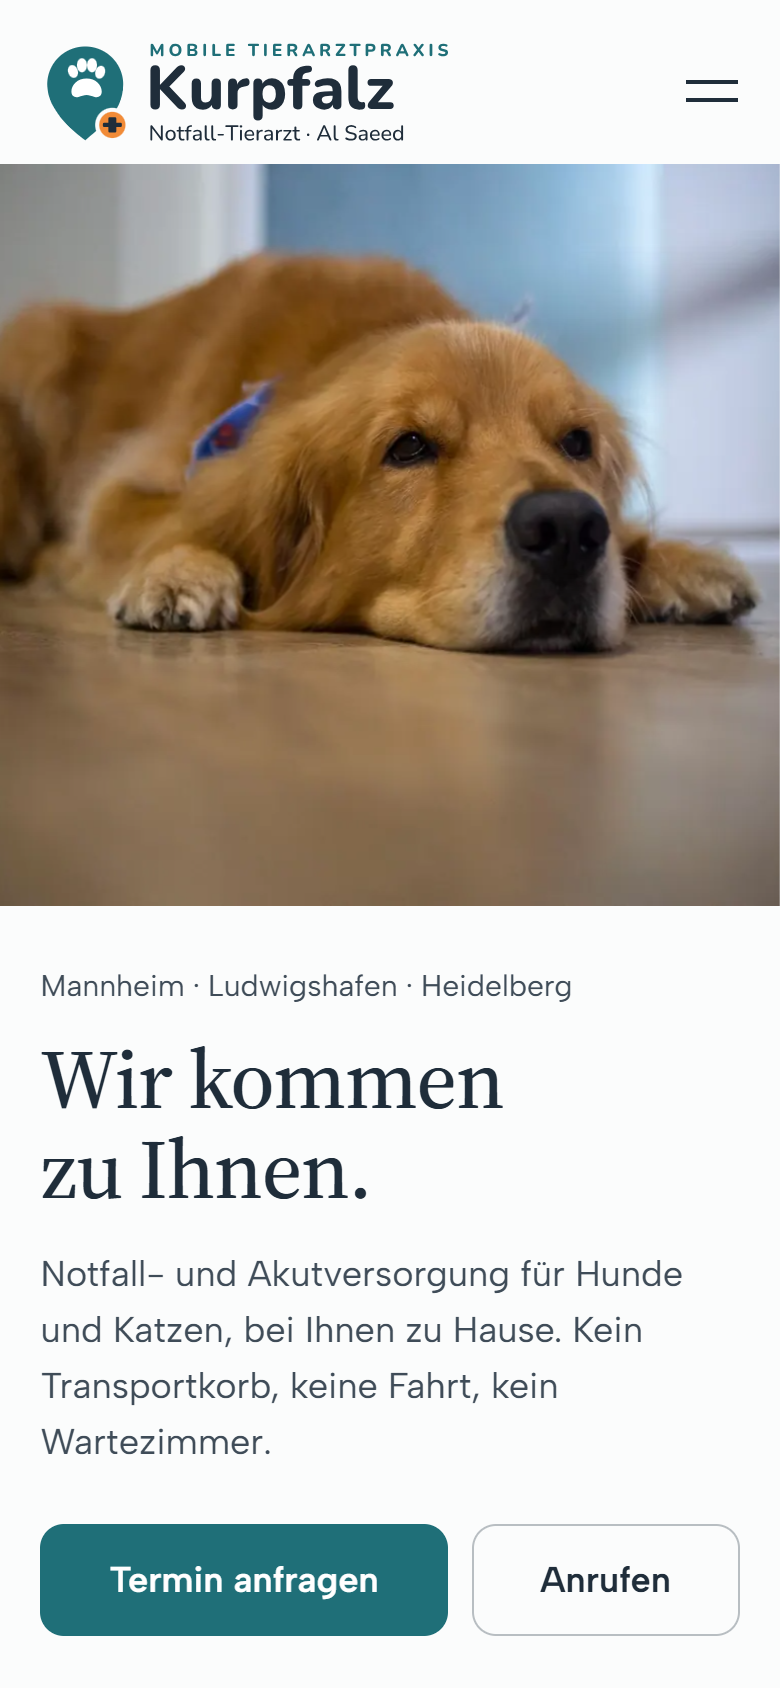
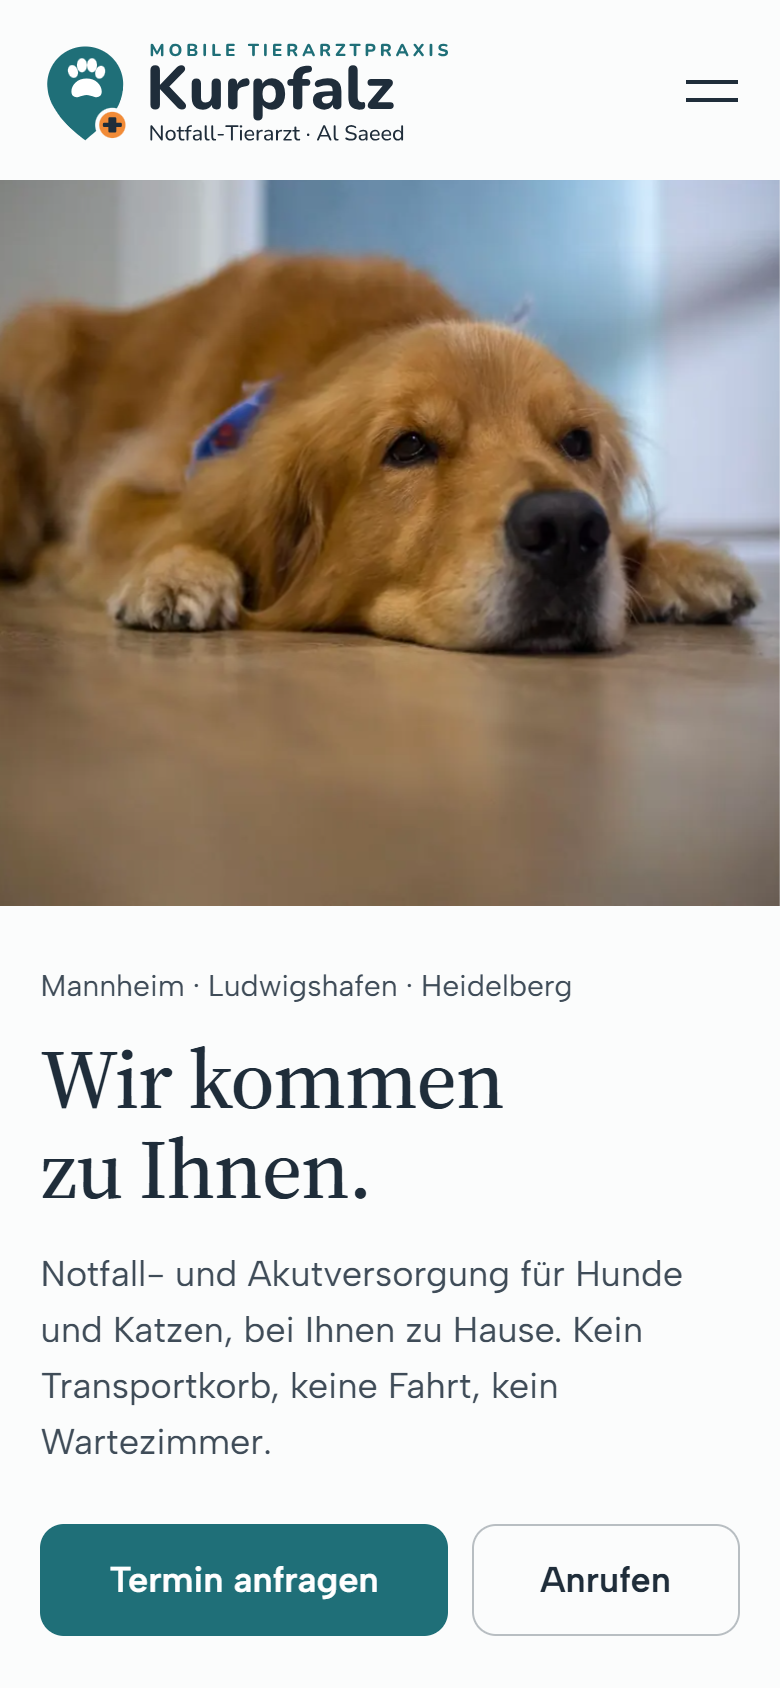
Kopfzeile: gleitende Petrol-Linie, aktueller Abschnitt markiert, feste Fläche
- Eine Linie gleitet unter den Punkt unter Maus oder Fokus und zurück zum aktuellen Punkt (src/abend/schublade.css, abend.js)
- Startseite: Abschnitt in der Bildschirmmitte wird markiert (aria-current), über dem Startbild nichts
- Unterseiten: Leistungen bzw. Ratgeber markiert
- Kopfzeile immer mit fester Fläche, beim Scrollen feine Linie; Uhr scheint nicht mehr durch
- Menüpunkte leiser (Stein), aktiver Punkt dunkel

Changed region(s): [[0.0, 0.0924, 1.0, 0.1232]]

diff --git a/site/abend/abend.js b/site/abend/abend.js
@@ -46,6 +46,53 @@
     window.matchMedia('(min-width: 1101px)').addEventListener('change', function (m) { if (m.matches && !sMenue.hidden) sZu(false); });
   }
 
+  // Kopfzeile: Petrol-Linie gleitet unter den Punkt unter Maus oder Fokus, sonst unter den aktuellen Punkt
+  var navl = document.querySelector('.navlinie');
+  if (navl) {
+    var strich = navl.querySelector('.navlinie__strich');
+    var links = Array.prototype.slice.call(navl.querySelectorAll('a'));
+    var ziel = null;
+    var setze = function (a) {
+      ziel = a;
+      if (!a || !a.offsetWidth) { strich.style.opacity = '0'; return; }
+      var n = navl.getBoundingClientRect(), r = a.getBoundingClientRect();
+      strich.style.transform = 'translateX(' + (r.left - n.left) + 'px) scaleX(' + r.width + ')';
+      strich.style.opacity = '1';
+    };
+    var aktuell = function () { return navl.querySelector('a[aria-current]'); };
+    links.forEach(function (a) {
+      a.addEventListener('mouseenter', function () { setze(a); });
+      a.addEventListener('focus', function () { setze(a); });
+      a.addEventListener('blur', function () { setze(aktuell()); });
+    });
+    navl.addEventListener('mouseleave', function () { setze(aktuell()); });
+    window.addEventListener('resize', function () { setze(ziel); });
+    if (document.fonts && document.fonts.ready) document.fonts.ready.then(function () { setze(ziel || aktuell()); });
+
+    // Unterseiten: Leistungen bzw. Ratgeber markieren
+    var pfad = location.pathname;
+    links.forEach(function (a) {
+      var h = a.getAttribute('href') || '';
+      if ((/leistungen\/$/.test(h) && /\/(leistungen|abschied)\//.test(pfad)) || (/ratgeber\/$/.test(h) && /\/ratgeber\//.test(pfad))) a.setAttribute('aria-current', 'page');
+    });
+    // Startseite: der Abschnitt in der Bildschirmmitte bestimmt den markierten Punkt
+    var anker = links.filter(function (a) { return (a.getAttribute('href') || '').charAt(0) === '#'; });
+    if (anker.length && 'IntersectionObserver' in window) {
+      var markiere = function (id) {
+        anker.forEach(function (a) { if (a.getAttribute('href') === '#' + id) a.setAttribute('aria-current', 'location'); else a.removeAttribute('aria-current'); });
+        if (!navl.matches(':hover') && !navl.contains(document.activeElement)) setze(aktuell());
+      };
+      var spion = new IntersectionObserver(function (e) {
+        e.forEach(function (x) { if (x.isIntersecting) markiere(x.target.id); });
+      }, { rootMargin: '-45% 0px -50% 0px' });
+      anker.forEach(function (a) { var s = document.getElementById(a.getAttribute('href').slice(1)); if (s) spion.observe(s); });
+      // Über dem Startbild ist nichts markiert
+      var startBereich = document.querySelector('.start');
+      if (startBereich) new IntersectionObserver(function (e) { if (e[0].isIntersecting) markiere(''); }, { rootMargin: '-45% 0px -50% 0px' }).observe(startBereich);
+    }
+    setze(aktuell());
+  }
+
   // Handy-Leiste erst zeigen, wenn die Knöpfe im Startbereich aus dem Bild sind
   var leiste = document.querySelector('.leiste');
   var startKnoepfe = document.querySelector('.start__knoepfe');

diff --git a/src/abend/abend.js b/src/abend/abend.js
@@ -46,6 +46,53 @@
     window.matchMedia('(min-width: 1101px)').addEventListener('change', function (m) { if (m.matches && !sMenue.hidden) sZu(false); });
   }
 
+  // Kopfzeile: Petrol-Linie gleitet unter den Punkt unter Maus oder Fokus, sonst unter den aktuellen Punkt
+  var navl = document.querySelector('.navlinie');
+  if (navl) {
+    var strich = navl.querySelector('.navlinie__strich');
+    var links = Array.prototype.slice.call(navl.querySelectorAll('a'));
+    var ziel = null;
+    var setze = function (a) {
+      ziel = a;
+      if (!a || !a.offsetWidth) { strich.style.opacity = '0'; return; }
+      var n = navl.getBoundingClientRect(), r = a.getBoundingClientRect();
+      strich.style.transform = 'translateX(' + (r.left - n.left) + 'px) scaleX(' + r.width + ')';
+      strich.style.opacity = '1';
+    };
+    var aktuell = function () { return navl.querySelector('a[aria-current]'); };
+    links.forEach(function (a) {
+      a.addEventListener('mouseenter', function () { setze(a); });
+      a.addEventListener('focus', function () { setze(a); });
+      a.addEventListener('blur', function () { setze(aktuell()); });
+    });
+    navl.addEventListener('mouseleave', function () { setze(aktuell()); });
+    window.addEventListener('resize', function () { setze(ziel); });
+    if (document.fonts && document.fonts.ready) document.fonts.ready.then(function () { setze(ziel || aktuell()); });
+
+    // Unterseiten: Leistungen bzw. Ratgeber markieren
+    var pfad = location.pathname;
+    links.forEach(function (a) {
+      var h = a.getAttribute('href') || '';
+      if ((/leistungen\/$/.test(h) && /\/(leistungen|abschied)\//.test(pfad)) || (/ratgeber\/$/.test(h) && /\/ratgeber\//.test(pfad))) a.setAttribute('aria-current', 'page');
+    });
+    // Startseite: der Abschnitt in der Bildschirmmitte bestimmt den markierten Punkt
+    var anker = links.filter(function (a) { return (a.getAttribute('href') || '').charAt(0) === '#'; });
+    if (anker.length && 'IntersectionObserver' in window) {
+      var markiere = function (id) {
+        anker.forEach(function (a) { if (a.getAttribute('href') === '#' + id) a.setAttribute('aria-current', 'location'); else a.removeAttribute('aria-current'); });
+        if (!navl.matches(':hover') && !navl.contains(document.activeElement)) setze(aktuell());
+      };
+      var spion = new IntersectionObserver(function (e) {
+        e.forEach(function (x) { if (x.isIntersecting) markiere(x.target.id); });
+      }, { rootMargin: '-45% 0px -50% 0px' });
+      anker.forEach(function (a) { var s = document.getElementById(a.getAttribute('href').slice(1)); if (s) spion.observe(s); });
+      // Über dem Startbild ist nichts markiert
+      var startBereich = document.querySelector('.start');
+      if (startBereich) new IntersectionObserver(function (e) { if (e[0].isIntersecting) markiere(''); }, { rootMargin: '-45% 0px -50% 0px' }).observe(startBereich);
+    }
+    setze(aktuell());
+  }
+
   // Handy-Leiste erst zeigen, wenn die Knöpfe im Startbereich aus dem Bild sind
   var leiste = document.querySelector('.leiste');
   var startKnoepfe = document.querySelector('.start__knoepfe');

diff --git a/site/abend/stil.css b/site/abend/stil.css
@@ -67,8 +67,8 @@ h1, h2, h3 { margin: 0; font-family: var(--serif); font-weight: 500; letter-spac
 .knopf--rand:hover { border-color: var(--tinte); background: #fff; }
 
 /* Kopf */
-.kopf { position: fixed; inset: 0 0 auto; z-index: 20; display: flex; align-items: center; gap: 32px; padding: 18px var(--rand); transition: background-color 400ms ease, box-shadow 400ms ease; }
-.kopf.ist-fest { background: rgba(251, 252, 252, .97); box-shadow: 0 1px 0 var(--linie-hell); }
+.kopf { position: fixed; inset: 0 0 auto; z-index: 20; display: flex; align-items: center; gap: 32px; padding: 18px var(--rand); background: var(--kalk); transition: box-shadow 400ms ease; }
+.kopf.ist-fest { box-shadow: 0 1px 0 var(--linie-hell); }
 .kopf__marke img { width: 280px; height: auto; }
 .kopf__nav { margin-left: auto; }
 .kopf__nav ul { display: flex; gap: 30px; list-style: none; margin: 0; padding: 0; }
@@ -352,6 +352,17 @@ details p { margin: 0 0 20px; max-width: 62ch; color: var(--tinte); }
 
 /* Keine Kursivschrift (Tamers Wunsch) */
 h1, h2, h3, p, span, li, a, blockquote, figcaption, summary, dt, dd, label, legend, small, strong { font-style: normal; }
+
+/* ===== Kopfzeile am Computer: eine Petrol-Linie gleitet unter den Punkt unter der Maus
+   und zurück zum aktuellen Abschnitt bzw. zur aktuellen Seite (Steuerung in abend.js) ===== */
+.navlinie { position: relative; }
+.navlinie a { display: inline-block; padding: 10px 0; color: var(--stein); opacity: 1; transition: color 250ms ease; }
+.navlinie a:hover, .navlinie a:focus-visible, .navlinie a[aria-current] { color: var(--tinte); }
+.navlinie__strich { position: absolute; left: 0; bottom: 2px; width: 1px; height: 2px; background: var(--honig); transform-origin: 0 50%; opacity: 0; pointer-events: none; transition: transform 380ms cubic-bezier(.2, .7, .2, 1), opacity 250ms ease; }
+.js .navlinie a:focus-visible { outline: none; }
+.navlinie a:focus-visible { text-decoration: underline; text-decoration-color: var(--honig); text-underline-offset: 10px; text-decoration-thickness: 2px; }
+.js .navlinie a:focus-visible { text-decoration: none; }
+@media (prefers-reduced-motion: reduce) { .navlinie__strich { transition: opacity 150ms ease; } }
 
 /* ===== Menü für Tablet und Handy (gleich auf allen Seiten, src/abend/schublade.css) ===== */
 .unsichtbar { position: absolute; width: 1px; height: 1px; overflow: hidden; clip: rect(0 0 0 0); white-space: nowrap; }

diff --git a/site/abend/unterseiten.css b/site/abend/unterseiten.css
@@ -886,7 +886,7 @@ h1, h2, h3 { font-weight: 500; letter-spacing: -.01em; }
 .fehlt { font-family: var(--sans); font-size: .8em; background: rgba(31, 111, 120, .14); padding: 0 .3em; border-radius: 3px; }
 
 /* ----- Kopf ----- */
-.ab-kopf { position: sticky; top: 0; z-index: 20; display: flex; align-items: center; gap: 32px; padding: 14px var(--rand); background: rgba(251, 252, 252, .97); color: var(--tinte); box-shadow: 0 1px 0 var(--linie); }
+.ab-kopf { position: sticky; top: 0; z-index: 20; display: flex; align-items: center; gap: 32px; padding: 14px var(--rand); background: var(--kalk); color: var(--tinte); box-shadow: 0 1px 0 var(--linie); }
 .ab-kopf__marke img { width: 272px; height: auto; display: block; }
 .ab-kopf__nav { margin-left: auto; }
 .ab-kopf__nav a { white-space: nowrap; }
@@ -940,6 +940,17 @@ h1, h2, h3 { font-weight: 500; letter-spacing: -.01em; }
 
 /* Keine Kursivschrift (Tamers Wunsch), auch nicht aus dem Aufbau von Richtung A */
 h1, h2, h3, p, span, li, a, blockquote, figcaption, summary, dt, dd, label, legend, small, strong, .schritt__wann { font-style: normal !important; }
+
+/* ===== Kopfzeile am Computer: eine Petrol-Linie gleitet unter den Punkt unter der Maus
+   und zurück zum aktuellen Abschnitt bzw. zur aktuellen Seite (Steuerung in abend.js) ===== */
+.navlinie { position: relative; }
+.navlinie a { display: inline-block; padding: 10px 0; color: var(--stein); opacity: 1; transition: color 250ms ease; }
+.navlinie a:hover, .navlinie a:focus-visible, .navlinie a[aria-current] { color: var(--tinte); }
+.navlinie__strich { position: absolute; left: 0; bottom: 2px; width: 1px; height: 2px; background: var(--honig); transform-origin: 0 50%; opacity: 0; pointer-events: none; transition: transform 380ms cubic-bezier(.2, .7, .2, 1), opacity 250ms ease; }
+.js .navlinie a:focus-visible { outline: none; }
+.navlinie a:focus-visible { text-decoration: underline; text-decoration-color: var(--honig); text-underline-offset: 10px; text-decoration-thickness: 2px; }
+.js .navlinie a:focus-visible { text-decoration: none; }
+@media (prefers-reduced-motion: reduce) { .navlinie__strich { transition: opacity 150ms ease; } }
 
 /* ===== Menü für Tablet und Handy (gleich auf allen Seiten, src/abend/schublade.css) ===== */
 .unsichtbar { position: absolute; width: 1px; height: 1px; overflow: hidden; clip: rect(0 0 0 0); white-space: nowrap; }

diff --git a/src/abend/schublade.css b/src/abend/schublade.css
@@ -1,4 +1,15 @@
 
+/* ===== Kopfzeile am Computer: eine Petrol-Linie gleitet unter den Punkt unter der Maus
+   und zurück zum aktuellen Abschnitt bzw. zur aktuellen Seite (Steuerung in abend.js) ===== */
+.navlinie { position: relative; }
+.navlinie a { display: inline-block; padding: 10px 0; color: var(--stein); opacity: 1; transition: color 250ms ease; }
+.navlinie a:hover, .navlinie a:focus-visible, .navlinie a[aria-current] { color: var(--tinte); }
+.navlinie__strich { position: absolute; left: 0; bottom: 2px; width: 1px; height: 2px; background: var(--honig); transform-origin: 0 50%; opacity: 0; pointer-events: none; transition: transform 380ms cubic-bezier(.2, .7, .2, 1), opacity 250ms ease; }
+.js .navlinie a:focus-visible { outline: none; }
+.navlinie a:focus-visible { text-decoration: underline; text-decoration-color: var(--honig); text-underline-offset: 10px; text-decoration-thickness: 2px; }
+.js .navlinie a:focus-visible { text-decoration: none; }
+@media (prefers-reduced-motion: reduce) { .navlinie__strich { transition: opacity 150ms ease; } }
+
 /* ===== Menü für Tablet und Handy (gleich auf allen Seiten, src/abend/schublade.css) ===== */
 .unsichtbar { position: absolute; width: 1px; height: 1px; overflow: hidden; clip: rect(0 0 0 0); white-space: nowrap; }
 .schublade-knopf { display: none; width: 48px; height: 48px; margin-right: -10px; border: 0; background: transparent; color: var(--tinte); cursor: pointer; place-content: center; gap: 7px; }

diff --git a/site/abend/leistungen/akutversorgung/index.html b/site/abend/leistungen/akutversorgung/index.html
@@ -16,7 +16,7 @@
 <a class="sprung" href="#inhalt">Zum Inhalt springen</a>
 <header class="ab-kopf">
   <a class="ab-kopf__marke" href="../../" aria-label="Mobile Tierarztpraxis Kurpfalz, zur Startseite"><img src="../../../logo/logo-quer-original.svg" width="166" height="50" alt=""></a>
-  <nav class="ab-kopf__nav" aria-label="Hauptnavigation"><ul><li><a href="../../leistungen/">Leistungen</a></li><li><a href="../../#ablauf">Hausbesuch</a></li><li><a href="../../#tierarzt">Über mich</a></li><li><a href="../../ratgeber/">Ratgeber</a></li><li><a href="../../#termin">Kontakt</a></li></ul></nav>
+  <nav class="ab-kopf__nav navlinie" aria-label="Hauptnavigation"><span class="navlinie__strich" aria-hidden="true"></span><ul><li><a href="../../leistungen/">Leistungen</a></li><li><a href="../../#ablauf">Hausbesuch</a></li><li><a href="../../#tierarzt">Über mich</a></li><li><a href="../../ratgeber/">Ratgeber</a></li><li><a href="../../#termin">Kontakt</a></li></ul></nav>
   <a class="ab-kopf__tel" href="tel:+496210000000">0621 000 00 00</a>
   <button class="schublade-knopf" type="button" aria-expanded="false" aria-controls="schublade"><span class="unsichtbar">Menü öffnen</span><span class="schublade-knopf__strich"></span><span class="schublade-knopf__strich"></span></button>
 </header>

diff --git a/site/abend/leistungen/augen-bindehaut/index.html b/site/abend/leistungen/augen-bindehaut/index.html
@@ -16,7 +16,7 @@
 <a class="sprung" href="#inhalt">Zum Inhalt springen</a>
 <header class="ab-kopf">
   <a class="ab-kopf__marke" href="../../" aria-label="Mobile Tierarztpraxis Kurpfalz, zur Startseite"><img src="../../../logo/logo-quer-original.svg" width="166" height="50" alt=""></a>
-  <nav class="ab-kopf__nav" aria-label="Hauptnavigation"><ul><li><a href="../../leistungen/">Leistungen</a></li><li><a href="../../#ablauf">Hausbesuch</a></li><li><a href="../../#tierarzt">Über mich</a></li><li><a href="../../ratgeber/">Ratgeber</a></li><li><a href="../../#termin">Kontakt</a></li></ul></nav>
+  <nav class="ab-kopf__nav navlinie" aria-label="Hauptnavigation"><span class="navlinie__strich" aria-hidden="true"></span><ul><li><a href="../../leistungen/">Leistungen</a></li><li><a href="../../#ablauf">Hausbesuch</a></li><li><a href="../../#tierarzt">Über mich</a></li><li><a href="../../ratgeber/">Ratgeber</a></li><li><a href="../../#termin">Kontakt</a></li></ul></nav>
   <a class="ab-kopf__tel" href="tel:+496210000000">0621 000 00 00</a>
   <button class="schublade-knopf" type="button" aria-expanded="false" aria-controls="schublade"><span class="unsichtbar">Menü öffnen</span><span class="schublade-knopf__strich"></span><span class="schublade-knopf__strich"></span></button>
 </header>

diff --git a/site/abend/leistungen/bisswunden-verletzungen/index.html b/site/abend/leistungen/bisswunden-verletzungen/index.html
@@ -16,7 +16,7 @@
 <a class="sprung" href="#inhalt">Zum Inhalt springen</a>
 <header class="ab-kopf">
   <a class="ab-kopf__marke" href="../../" aria-label="Mobile Tierarztpraxis Kurpfalz, zur Startseite"><img src="../../../logo/logo-quer-original.svg" width="166" height="50" alt=""></a>
-  <nav class="ab-kopf__nav" aria-label="Hauptnavigation"><ul><li><a href="../../leistungen/">Leistungen</a></li><li><a href="../../#ablauf">Hausbesuch</a></li><li><a href="../../#tierarzt">Über mich</a></li><li><a href="../../ratgeber/">Ratgeber</a></li><li><a href="../../#termin">Kontakt</a></li></ul></nav>
+  <nav class="ab-kopf__nav navlinie" aria-label="Hauptnavigation"><span class="navlinie__strich" aria-hidden="true"></span><ul><li><a href="../../leistungen/">Leistungen</a></li><li><a href="../../#ablauf">Hausbesuch</a></li><li><a href="../../#tierarzt">Über mich</a></li><li><a href="../../ratgeber/">Ratgeber</a></li><li><a href="../../#termin">Kontakt</a></li></ul></nav>
   <a class="ab-kopf__tel" href="tel:+496210000000">0621 000 00 00</a>
   <button class="schublade-knopf" type="button" aria-expanded="false" aria-controls="schublade"><span class="unsichtbar">Menü öffnen</span><span class="schublade-knopf__strich"></span><span class="schublade-knopf__strich"></span></button>
 </header>

diff --git a/site/abend/leistungen/blase-harnwege/index.html b/site/abend/leistungen/blase-harnwege/index.html
@@ -16,7 +16,7 @@
 <a class="sprung" href="#inhalt">Zum Inhalt springen</a>
 <header class="ab-kopf">
   <a class="ab-kopf__marke" href="../../" aria-label="Mobile Tierarztpraxis Kurpfalz, zur Startseite"><img src="../../../logo/logo-quer-original.svg" width="166" height="50" alt=""></a>
-  <nav class="ab-kopf__nav" aria-label="Hauptnavigation"><ul><li><a href="../../leistungen/">Leistungen</a></li><li><a href="../../#ablauf">Hausbesuch</a></li><li><a href="../../#tierarzt">Über mich</a></li><li><a href="../../ratgeber/">Ratgeber</a></li><li><a href="../../#termin">Kontakt</a></li></ul></nav>
+  <nav class="ab-kopf__nav navlinie" aria-label="Hauptnavigation"><span class="navlinie__strich" aria-hidden="true"></span><ul><li><a href="../../leistungen/">Leistungen</a></li><li><a href="../../#ablauf">Hausbesuch</a></li><li><a href="../../#tierarzt">Über mich</a></li><li><a href="../../ratgeber/">Ratgeber</a></li><li><a href="../../#termin">Kontakt</a></li></ul></nav>
   <a class="ab-kopf__tel" href="tel:+496210000000">0621 000 00 00</a>
   <button class="schublade-knopf" type="button" aria-expanded="false" aria-controls="schublade"><span class="unsichtbar">Menü öffnen</span><span class="schublade-knopf__strich"></span><span class="schublade-knopf__strich"></span></button>
 </header>

diff --git a/site/abend/leistungen/durchfall-erbrechen/index.html b/site/abend/leistungen/durchfall-erbrechen/index.html
@@ -16,7 +16,7 @@
 <a class="sprung" href="#inhalt">Zum Inhalt springen</a>
 <header class="ab-kopf">
   <a class="ab-kopf__marke" href="../../" aria-label="Mobile Tierarztpraxis Kurpfalz, zur Startseite"><img src="../../../logo/logo-quer-original.svg" width="166" height="50" alt=""></a>
-  <nav class="ab-kopf__nav" aria-label="Hauptnavigation"><ul><li><a href="../../leistungen/">Leistungen</a></li><li><a href="../../#ablauf">Hausbesuch</a></li><li><a href="../../#tierarzt">Über mich</a></li><li><a href="../../ratgeber/">Ratgeber</a></li><li><a href="../../#termin">Kontakt</a></li></ul></nav>
+  <nav class="ab-kopf__nav navlinie" aria-label="Hauptnavigation"><span class="navlinie__strich" aria-hidden="true"></span><ul><li><a href="../../leistungen/">Leistungen</a></li><li><a href="../../#ablauf">Hausbesuch</a></li><li><a href="../../#tierarzt">Über mich</a></li><li><a href="../../ratgeber/">Ratgeber</a></li><li><a href="../../#termin">Kontakt</a></li></ul></nav>
   <a class="ab-kopf__tel" href="tel:+496210000000">0621 000 00 00</a>
   <button class="schublade-knopf" type="button" aria-expanded="false" aria-controls="schublade"><span class="unsichtbar">Menü öffnen</span><span class="schublade-knopf__strich"></span><span class="schublade-knopf__strich"></span></button>
 </header>

diff --git a/site/abend/leistungen/infektionen-infusionen/index.html b/site/abend/leistungen/infektionen-infusionen/index.html
@@ -16,7 +16,7 @@
 <a class="sprung" href="#inhalt">Zum Inhalt springen</a>
 <header class="ab-kopf">
   <a class="ab-kopf__marke" href="../../" aria-label="Mobile Tierarztpraxis Kurpfalz, zur Startseite"><img src="../../../logo/logo-quer-original.svg" width="166" height="50" alt=""></a>
-  <nav class="ab-kopf__nav" aria-label="Hauptnavigation"><ul><li><a href="../../leistungen/">Leistungen</a></li><li><a href="../../#ablauf">Hausbesuch</a></li><li><a href="../../#tierarzt">Über mich</a></li><li><a href="../../ratgeber/">Ratgeber</a></li><li><a href="../../#termin">Kontakt</a></li></ul></nav>
+  <nav class="ab-kopf__nav navlinie" aria-label="Hauptnavigation"><span class="navlinie__strich" aria-hidden="true"></span><ul><li><a href="../../leistungen/">Leistungen</a></li><li><a href="../../#ablauf">Hausbesuch</a></li><li><a href="../../#tierarzt">Über mich</a></li><li><a href="../../ratgeber/">Ratgeber</a></li><li><a href="../../#termin">Kontakt</a></li></ul></nav>
   <a class="ab-kopf__tel" href="tel:+496210000000">0621 000 00 00</a>
   <button class="schublade-knopf" type="button" aria-expanded="false" aria-controls="schublade"><span class="unsichtbar">Menü öffnen</span><span class="schublade-knopf__strich"></span><span class="schublade-knopf__strich"></span></button>
 </header>

diff --git a/site/abend/leistungen/lahmheit-bewegung/index.html b/site/abend/leistungen/lahmheit-bewegung/index.html
@@ -16,7 +16,7 @@
 <a class="sprung" href="#inhalt">Zum Inhalt springen</a>
 <header class="ab-kopf">
   <a class="ab-kopf__marke" href="../../" aria-label="Mobile Tierarztpraxis Kurpfalz, zur Startseite"><img src="../../../logo/logo-quer-original.svg" width="166" height="50" alt=""></a>
-  <nav class="ab-kopf__nav" aria-label="Hauptnavigation"><ul><li><a href="../../leistungen/">Leistungen</a></li><li><a href="../../#ablauf">Hausbesuch</a></li><li><a href="../../#tierarzt">Über mich</a></li><li><a href="../../ratgeber/">Ratgeber</a></li><li><a href="../../#termin">Kontakt</a></li></ul></nav>
+  <nav class="ab-kopf__nav navlinie" aria-label="Hauptnavigation"><span class="navlinie__strich" aria-hidden="true"></span><ul><li><a href="../../leistungen/">Leistungen</a></li><li><a href="../../#ablauf">Hausbesuch</a></li><li><a href="../../#tierarzt">Über mich</a></li><li><a href="../../ratgeber/">Ratgeber</a></li><li><a href="../../#termin">Kontakt</a></li></ul></nav>
   <a class="ab-kopf__tel" href="tel:+496210000000">0621 000 00 00</a>
   <button class="schublade-knopf" type="button" aria-expanded="false" aria-controls="schublade"><span class="unsichtbar">Menü öffnen</span><span class="schublade-knopf__strich"></span><span class="schublade-knopf__strich"></span></button>
 </header>
